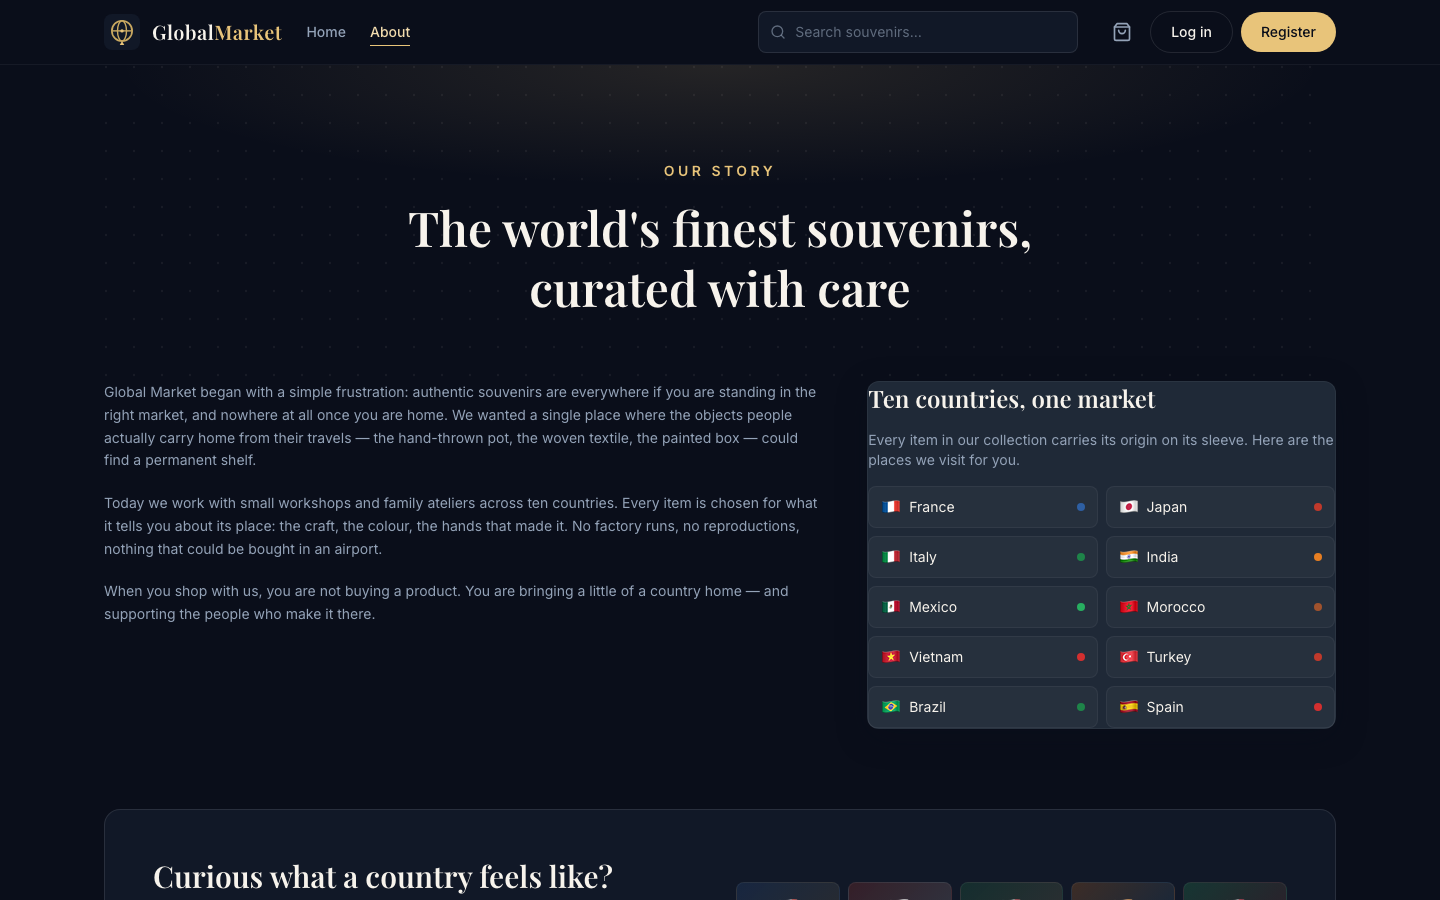
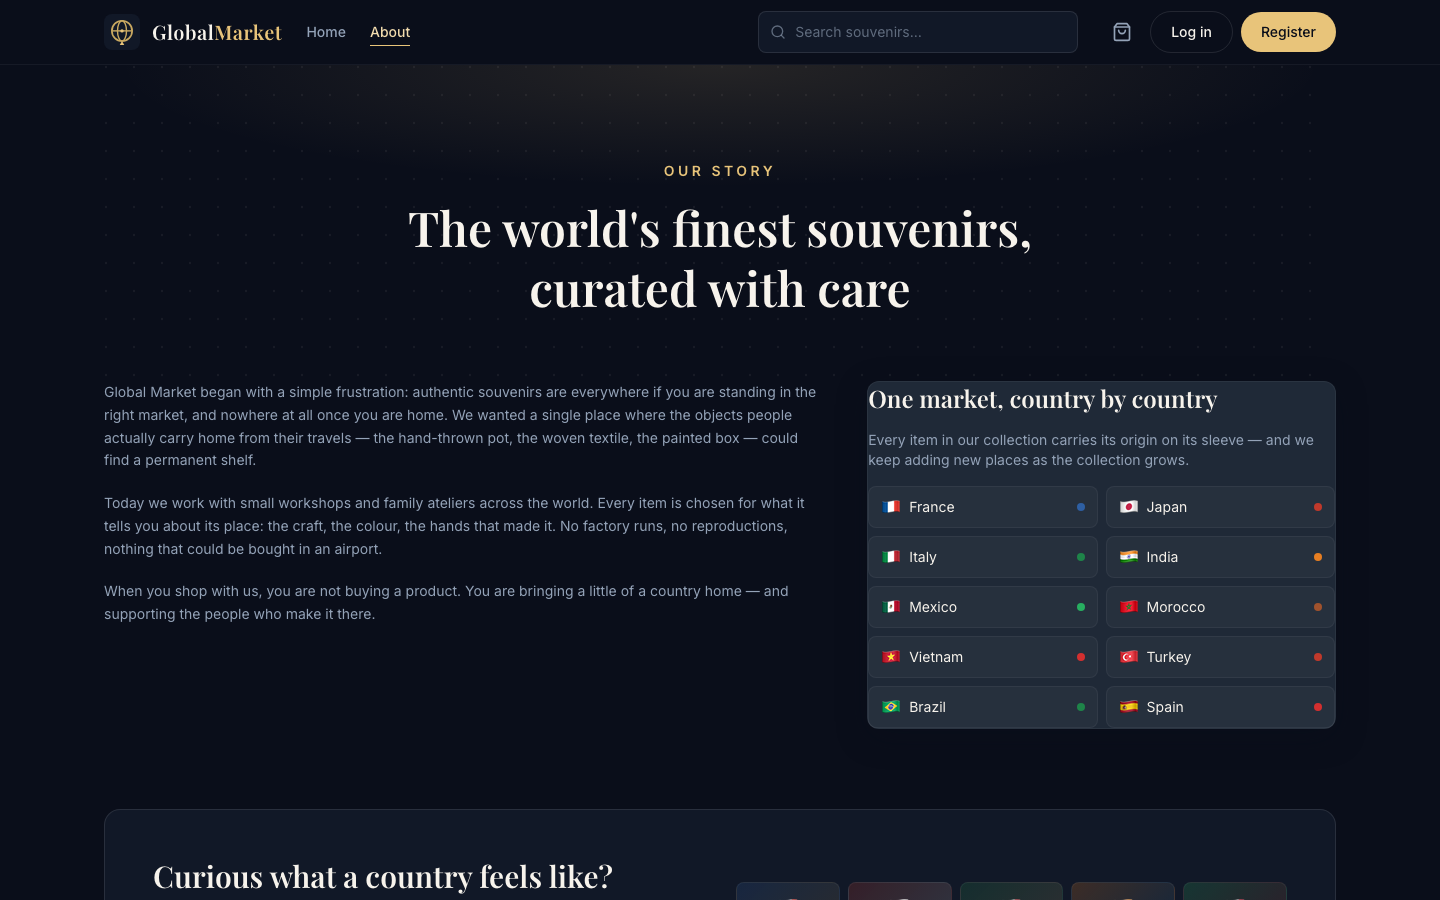
Make country lists data-driven instead of hardcoded
- About, Home explorer, and Footer country chips now render from the
  categories API, so new countries appear automatically as they're added
- Remove all 'ten countries' copy; accent/emoji still keyed by the
  growable COUNTRIES map with a gold 'World' fallback for unmapped names

diff --git a/frontend/src/pages/About.tsx b/frontend/src/pages/About.tsx
@@ -1,6 +1,7 @@
 import { Link } from 'react-router-dom'
 import { ArrowRight, MapPin } from 'lucide-react'
-import { COUNTRIES, countryInfo } from '../lib/country'
+import { useCategories } from '../hooks/useCatalog'
+import { countryInfo } from '../lib/country'
 
 function WorldPattern() {
   return (
@@ -20,6 +21,8 @@ function WorldPattern() {
 }
 
 export default function About() {
+  const { data: countries, isLoading } = useCategories()
+
   return (
     <div className="mx-auto max-w-7xl px-4 sm:px-6">
       <section className="relative overflow-hidden pb-16 pt-20 text-center sm:pt-24">
@@ -51,7 +54,7 @@ export default function About() {
             hand-thrown pot, the woven textile, the painted box — could find a permanent shelf.
           </p>
           <p>
-            Today we work with small workshops and family ateliers across ten countries. Every item
+            Today we work with small workshops and family ateliers across the world. Every item
             is chosen for what it tells you about its place: the craft, the colour, the hands that
             made it. No factory runs, no reproductions, nothing that could be bought in an airport.
           </p>
@@ -62,26 +65,30 @@ export default function About() {
         </div>
 
         <div className="card space-y-4 lg:col-span-2">
-          <h2 className="font-display text-2xl font-semibold text-cream">Ten countries, one market</h2>
+          <h2 className="font-display text-2xl font-semibold text-cream">One market, country by country</h2>
           <p className="text-sm text-mist">
-            Every item in our collection carries its origin on its sleeve. Here are the places we
-            visit for you.
+            Every item in our collection carries its origin on its sleeve — and we keep adding new
+            places as the collection grows.
           </p>
           <div className="grid grid-cols-2 gap-2">
-            {COUNTRIES.map((country) => (
-              <Link
-                key={country.name}
-                to={`/?country=${encodeURIComponent(country.name)}`}
-                className="group flex items-center gap-2 rounded-lg border border-white/5 bg-white/[0.03] px-3 py-2 text-sm text-cream transition-colors hover:border-white/10"
-              >
-                <span className="text-base">{country.emoji}</span>
-                <span className="flex-1">{country.name}</span>
-                <span
-                  className="h-2 w-2 rounded-full"
-                  style={{ backgroundColor: countryInfo(country.name).accent }}
-                />
-              </Link>
-            ))}
+            {isLoading
+              ? Array.from({ length: 6 }).map((_, i) => (
+                  <div key={i} className="h-9 animate-pulse rounded-lg bg-white/5" />
+                ))
+              : countries?.map((country) => (
+                  <Link
+                    key={country.id}
+                    to={`/?country=${encodeURIComponent(country.name)}`}
+                    className="group flex items-center gap-2 rounded-lg border border-white/5 bg-white/[0.03] px-3 py-2 text-sm text-cream transition-colors hover:border-white/10"
+                  >
+                    <span className="text-base">{countryInfo(country.name).emoji}</span>
+                    <span className="flex-1">{country.name}</span>
+                    <span
+                      className="h-2 w-2 rounded-full"
+                      style={{ backgroundColor: countryInfo(country.name).accent }}
+                    />
+                  </Link>
+                ))}
           </div>
         </div>
       </section>
@@ -106,16 +113,16 @@ export default function About() {
             </div>
           </div>
           <div className="grid grid-cols-5 gap-2 sm:grid-cols-10 lg:grid-cols-5">
-            {COUNTRIES.map((country) => {
+            {countries?.map((country) => {
               const info = countryInfo(country.name)
               return (
                 <div
-                  key={country.name}
+                  key={country.id}
                   title={country.name}
                   className="flex h-12 items-center justify-center rounded-lg border border-white/5 text-lg"
                   style={{ background: `linear-gradient(135deg, ${info.gradient[0]}33, ${info.gradient[1]}22)` }}
                 >
-                  {country.emoji}
+                  {info.emoji}
                 </div>
               )
             })}

diff --git a/frontend/src/pages/Home.tsx b/frontend/src/pages/Home.tsx
@@ -3,7 +3,7 @@ import { Link, useSearchParams } from 'react-router-dom'
 import { ArrowRight, SearchX } from 'lucide-react'
 import { useCategories, useProducts } from '../hooks/useCatalog'
 import ProductCard from '../components/ProductCard'
-import { COUNTRIES, countryInfo } from '../lib/country'
+import { countryInfo } from '../lib/country'
 import type { SortOption } from '../types/api'
 
 function WorldPattern() {
@@ -85,7 +85,7 @@ export default function Home() {
             <span className="italic text-gold-400">curated</span>.
           </h1>
           <p className="mx-auto mt-6 max-w-xl text-base text-mist sm:text-lg">
-            Handpicked keepsakes from ten countries — each with a story, each priced for the traveler.
+            Handpicked keepsakes from around the world — each with a story, each priced for the traveler.
           </p>
           <div className="mt-9 flex flex-wrap items-center justify-center gap-3">
             <a href="#collection" className="btn-gold px-7 py-3 text-base">
@@ -100,22 +100,23 @@ export default function Home() {
 
       <section className="pb-6">
         <div className="flex flex-wrap items-center justify-center gap-2">
-          {COUNTRIES.map((country) => {
-            const active = country.name === countryName
+          {categories?.map((category) => {
+            const info = countryInfo(category.name)
+            const active = category.name === countryName
             return (
               <button
-                key={country.name}
-                onClick={() => selectCountry(country.name)}
+                key={category.id}
+                onClick={() => selectCountry(category.name)}
                 className="inline-flex items-center gap-1.5 rounded-full border px-3.5 py-1.5 text-sm font-medium transition-all duration-200"
                 style={
                   active
-                    ? { backgroundColor: country.accent, borderColor: country.accent, color: '#fff' }
+                    ? { backgroundColor: info.accent, borderColor: info.accent, color: '#fff' }
                     : { borderColor: 'rgba(255,255,255,0.1)', color: '#94a3b8' }
                 }
                 aria-pressed={active}
               >
-                <span>{country.emoji}</span>
-                {country.name}
+                <span>{info.emoji}</span>
+                {category.name}
               </button>
             )
           })}

diff --git a/frontend/src/components/Footer.tsx b/frontend/src/components/Footer.tsx
@@ -1,8 +1,11 @@
 import { Link } from 'react-router-dom'
 import Brand from './Brand'
-import { COUNTRIES } from '../lib/country'
+import { useCategories } from '../hooks/useCatalog'
+import { countryInfo } from '../lib/country'
 
 export default function Footer() {
+  const { data: countries } = useCategories()
+
   return (
     <footer className="border-t border-white/5 bg-ink-900/60">
       <div className="mx-auto max-w-7xl px-4 py-12 sm:px-6">
@@ -17,13 +20,13 @@ export default function Footer() {
           <div>
             <p className="mb-3 text-xs font-semibold uppercase tracking-widest text-mist">Explore</p>
             <ul className="flex max-w-md flex-wrap gap-2">
-              {COUNTRIES.map((country) => (
-                <li key={country.name}>
+              {countries?.map((country) => (
+                <li key={country.id}>
                   <Link
                     to={`/?country=${encodeURIComponent(country.name)}`}
                     className="inline-flex items-center gap-1.5 rounded-full border border-white/10 px-3 py-1 text-xs text-mist transition-colors hover:border-gold-400/50 hover:text-gold-300"
                   >
-                    <span>{country.emoji}</span>
+                    <span>{countryInfo(country.name).emoji}</span>
                     {country.name}
                   </Link>
                 </li>

diff --git a/frontend/src/pages/AuthShell.tsx b/frontend/src/pages/AuthShell.tsx
@@ -40,7 +40,7 @@ export default function AuthShell({
             The world&apos;s finest souvenirs, <span className="italic text-gold-400">curated</span>.
           </h1>
           <p className="mt-4 max-w-sm text-mist">
-            Handpicked keepsakes from ten countries. Join the atelier to build your collection.
+            Handpicked keepsakes from around the world. Join the atelier to build your collection.
           </p>
         </div>
       </div>
